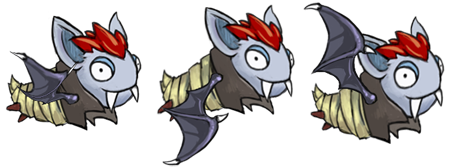
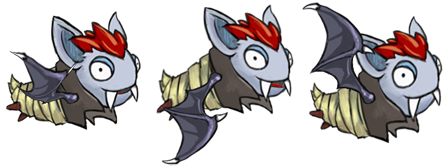
fx updates

diff --git a/TOB/js/preload.js b/TOB/js/preload.js
@@ -26,7 +26,9 @@ BasicGame.Preload.prototype = {
 		 	this.load.spritesheet('cha_bat', 'assets/cha_bat@3.png', 225, 250, 3);
 
 		 	this.load.image('blood', 'assets/blood@3.png');
-		 	this.load.image('bloodbits', 'assets/bloodbit@3.png');
+		 	this.load.spritesheet('blood_eat', 'assets/blood_eat@3.png', 150, 150, 6);
+
+		 	this.load.spritesheet('transform', 'assets/transform@3.png', 360, 360, 11);
 
 			this.load.image('open_all', 'assets/open_all@3.png');
 			this.load.image('open_none', 'assets/open_none@3.png');
@@ -48,7 +50,7 @@ BasicGame.Preload.prototype = {
 			this.load.image('open_up_left', 'assets/open_up_left@3.png');
 			this.load.image('open_up_right', 'assets/open_up_right@3.png');
 
-			this.load.spritesheet('fx_death', 'assets/FX_die@3.png', 220, 275, 10);
+			this.load.spritesheet('fx_death', 'assets/fx_death@3.png', 300, 300, 9);
 			this.load.spritesheet('fx_spawn', 'assets/FX_spawn@3.png', 400, 750, 12);
 			this.load.spritesheet('fx_run', 'assets/FX_run@3.png', 150, 75, 8);
 
@@ -68,10 +70,12 @@ BasicGame.Preload.prototype = {
 		 	this.load.image('restart', 'assets/restart@2.png');
 
 		 	this.load.spritesheet('cha_vamp', 'assets/cha_vamp@2.png', 50*2, 75*2, 3);
-		 	this.load.spritesheet('cha_bat', 'assets/cha_bat@2.png', 150, 167, 3);
+		 	this.load.spritesheet('cha_bat', 'assets/cha_bat@2.png', 150, 166, 3);
 
 		 	this.load.image('blood', 'assets/blood@2.png');
-		 	this.load.image('bloodbits', 'assets/bloodbit@2.png');
+		 	this.load.spritesheet('blood_eat', 'assets/blood_eat@2.png', 100, 100, 6);
+
+		 	this.load.spritesheet('transform', 'assets/transform@2.png', 240, 240, 11);
 
 		 	this.load.image('open_all', 'assets/open_all@2.png');
 			this.load.image('open_none', 'assets/open_none@2.png');
@@ -93,7 +97,7 @@ BasicGame.Preload.prototype = {
 			this.load.image('open_up_left', 'assets/open_up_left@2.png');
 			this.load.image('open_up_right', 'assets/open_up_right@2.png');
 
-			this.load.spritesheet('fx_death', 'assets/FX_die@2.png', 146, 183, 10);
+			this.load.spritesheet('fx_death', 'assets/fx_death@2.png', 200, 200, 9);
 			this.load.spritesheet('fx_spawn', 'assets/FX_spawn@2.png', 266, 500, 12);
 			this.load.spritesheet('fx_run', 'assets/FX_run@2.png', 100, 50, 8);
 
@@ -113,10 +117,12 @@ BasicGame.Preload.prototype = {
 		 	this.load.image('restart', 'assets/restart.png');
 
 		 	this.load.spritesheet('cha_vamp', 'assets/cha_vamp.png', 50, 75, 3);
-		 	this.load.spritesheet('cha_bat', 'assets/cha_bat.png', 75, 84, 3);
+		 	this.load.spritesheet('cha_bat', 'assets/cha_bat.png', 75, 83, 3);
 
 		 	this.load.image('blood', 'assets/blood.png');
-		 	this.load.image('bloodbits', 'assets/bloodbit.png');
+		 	this.load.spritesheet('blood_eat', 'assets/blood_eat.png', 50, 50, 6);
+
+		 	this.load.spritesheet('transform', 'assets/transform.png', 120, 120, 11);
 
 		 	this.load.image('open_all', 'assets/open_all.png');
 			this.load.image('open_none', 'assets/open_none.png');
@@ -138,7 +144,7 @@ BasicGame.Preload.prototype = {
 			this.load.image('open_up_left', 'assets/open_up_left.png');
 			this.load.image('open_up_right', 'assets/open_up_right.png');
 
-			this.load.spritesheet('fx_death', 'assets/FX_die.png', 72, 91, 10);
+			this.load.spritesheet('fx_death', 'assets/fx_death.png', 100, 100, 9);
 			this.load.spritesheet('fx_spawn', 'assets/FX_spawn.png', 133, 250, 12);
 			this.load.spritesheet('fx_run', 'assets/FX_run.png', 50, 25, 8);
 

diff --git a/TOB/js/main.js b/TOB/js/main.js
@@ -121,11 +121,17 @@ BasicGame.Main.prototype = {
 		for (var i = 0; i < me.bloods.children.length; i++){
 			var block = me.bloods.children[i];
 			me.game.physics.arcade.overlap(me.cha, block, function(cha, blood){
+
+				me.playFXEatBlood(blood.x, blood.y);
 				blood.destroy();
 				me.bloodCount += 1;
+
 				if (me.bloodCount > 4){
+					
 					me.runBatMode();
 					me.createPlayer();
+					me.playFXTransform();
+
 				}
 			}, null, me);	
 			
@@ -175,8 +181,7 @@ blocks - event handlers
 		if (BasicGame.sound)
 			me.hitSound.play();
 
-		var animationScale = 1.8;
-		me.playFXPlayerDeath(me.cha.x - me.cha.width * animationScale * 0.9, me.cha.y - me.cha.height * animationScale * 0.8, animationScale);
+		me.playFXPlayerDeath();
 
 		me.cha.animations.stop('flap');
 
@@ -500,14 +505,14 @@ Player
 		//me.cha.body.bounce.x = 0.15;
 	},
 
-	playFXPlayerDeath(x, y, scale){
+	playFXPlayerDeath(){
 		var me = this;
-		var anim = me.game.add.sprite(x, y, 'fx_death');
-		anim.scale.setTo(scale, scale);
+		var anim = me.game.add.sprite(me.cha.x - me.cha.width, me.cha.y - me.cha.height, 'fx_death');
+		anim.scale.setTo(1.6, 1.6);
 		anim.animations.add('death');
-		anim.animations.play('death', 32, false, true);
+		anim.animations.play('death', 18, false, true);
 		me.game.physics.arcade.enable(anim);
-		anim.body.velocity.x = me.mapVelX * 0.686;
+		anim.body.velocity.x = me.mapVelX;
 	},
 
 	playFXPlayerSpawn(x, y){
@@ -517,6 +522,26 @@ Player
 		anim.scale.setTo(scale, scale);
 		anim.animations.add('spawn');
 		anim.animations.play('spawn', 12, false, true);
+	},
+
+	playFXEatBlood(x, y){
+		var me = this;
+		var anim = me.game.add.sprite(x, y, 'blood_eat');
+		anim.animations.add('eatBlood');
+		anim.animations.play('eatBlood', 12, false, true);
+		anim.scale.setTo(1.3, 1.3);
+		me.game.physics.arcade.enable(anim);
+		anim.body.velocity.x = me.mapVelX;
+	},
+
+	playFXTransform(){
+		var me = this;
+		var anim = me.game.add.sprite(me.cha.x - me.cha.width, me.cha.y - me.cha.height, 'transform');
+		anim.animations.add('transformation');
+		anim.animations.play('transformation', 24, false, true);
+		anim.scale.setTo(1.5, 1.5);
+		me.game.physics.arcade.enable(anim);
+		anim.body.velocity.x = me.mapVelX * 0.186;
 	},
 
 	playFXPlayerRun(){

diff --git a/TOB/index.html b/TOB/index.html
@@ -86,7 +86,7 @@
 			      	default:
 			      		if (!BasicGame.isGameInit){
 			      			document.getElementById('orientation').style.display = 'block';
-			        		alert('Game Only Works for Landscape!');
+			        		//alert('Game Only Works for Landscape!');
 			      		}
 			        	break; 
 			    }
